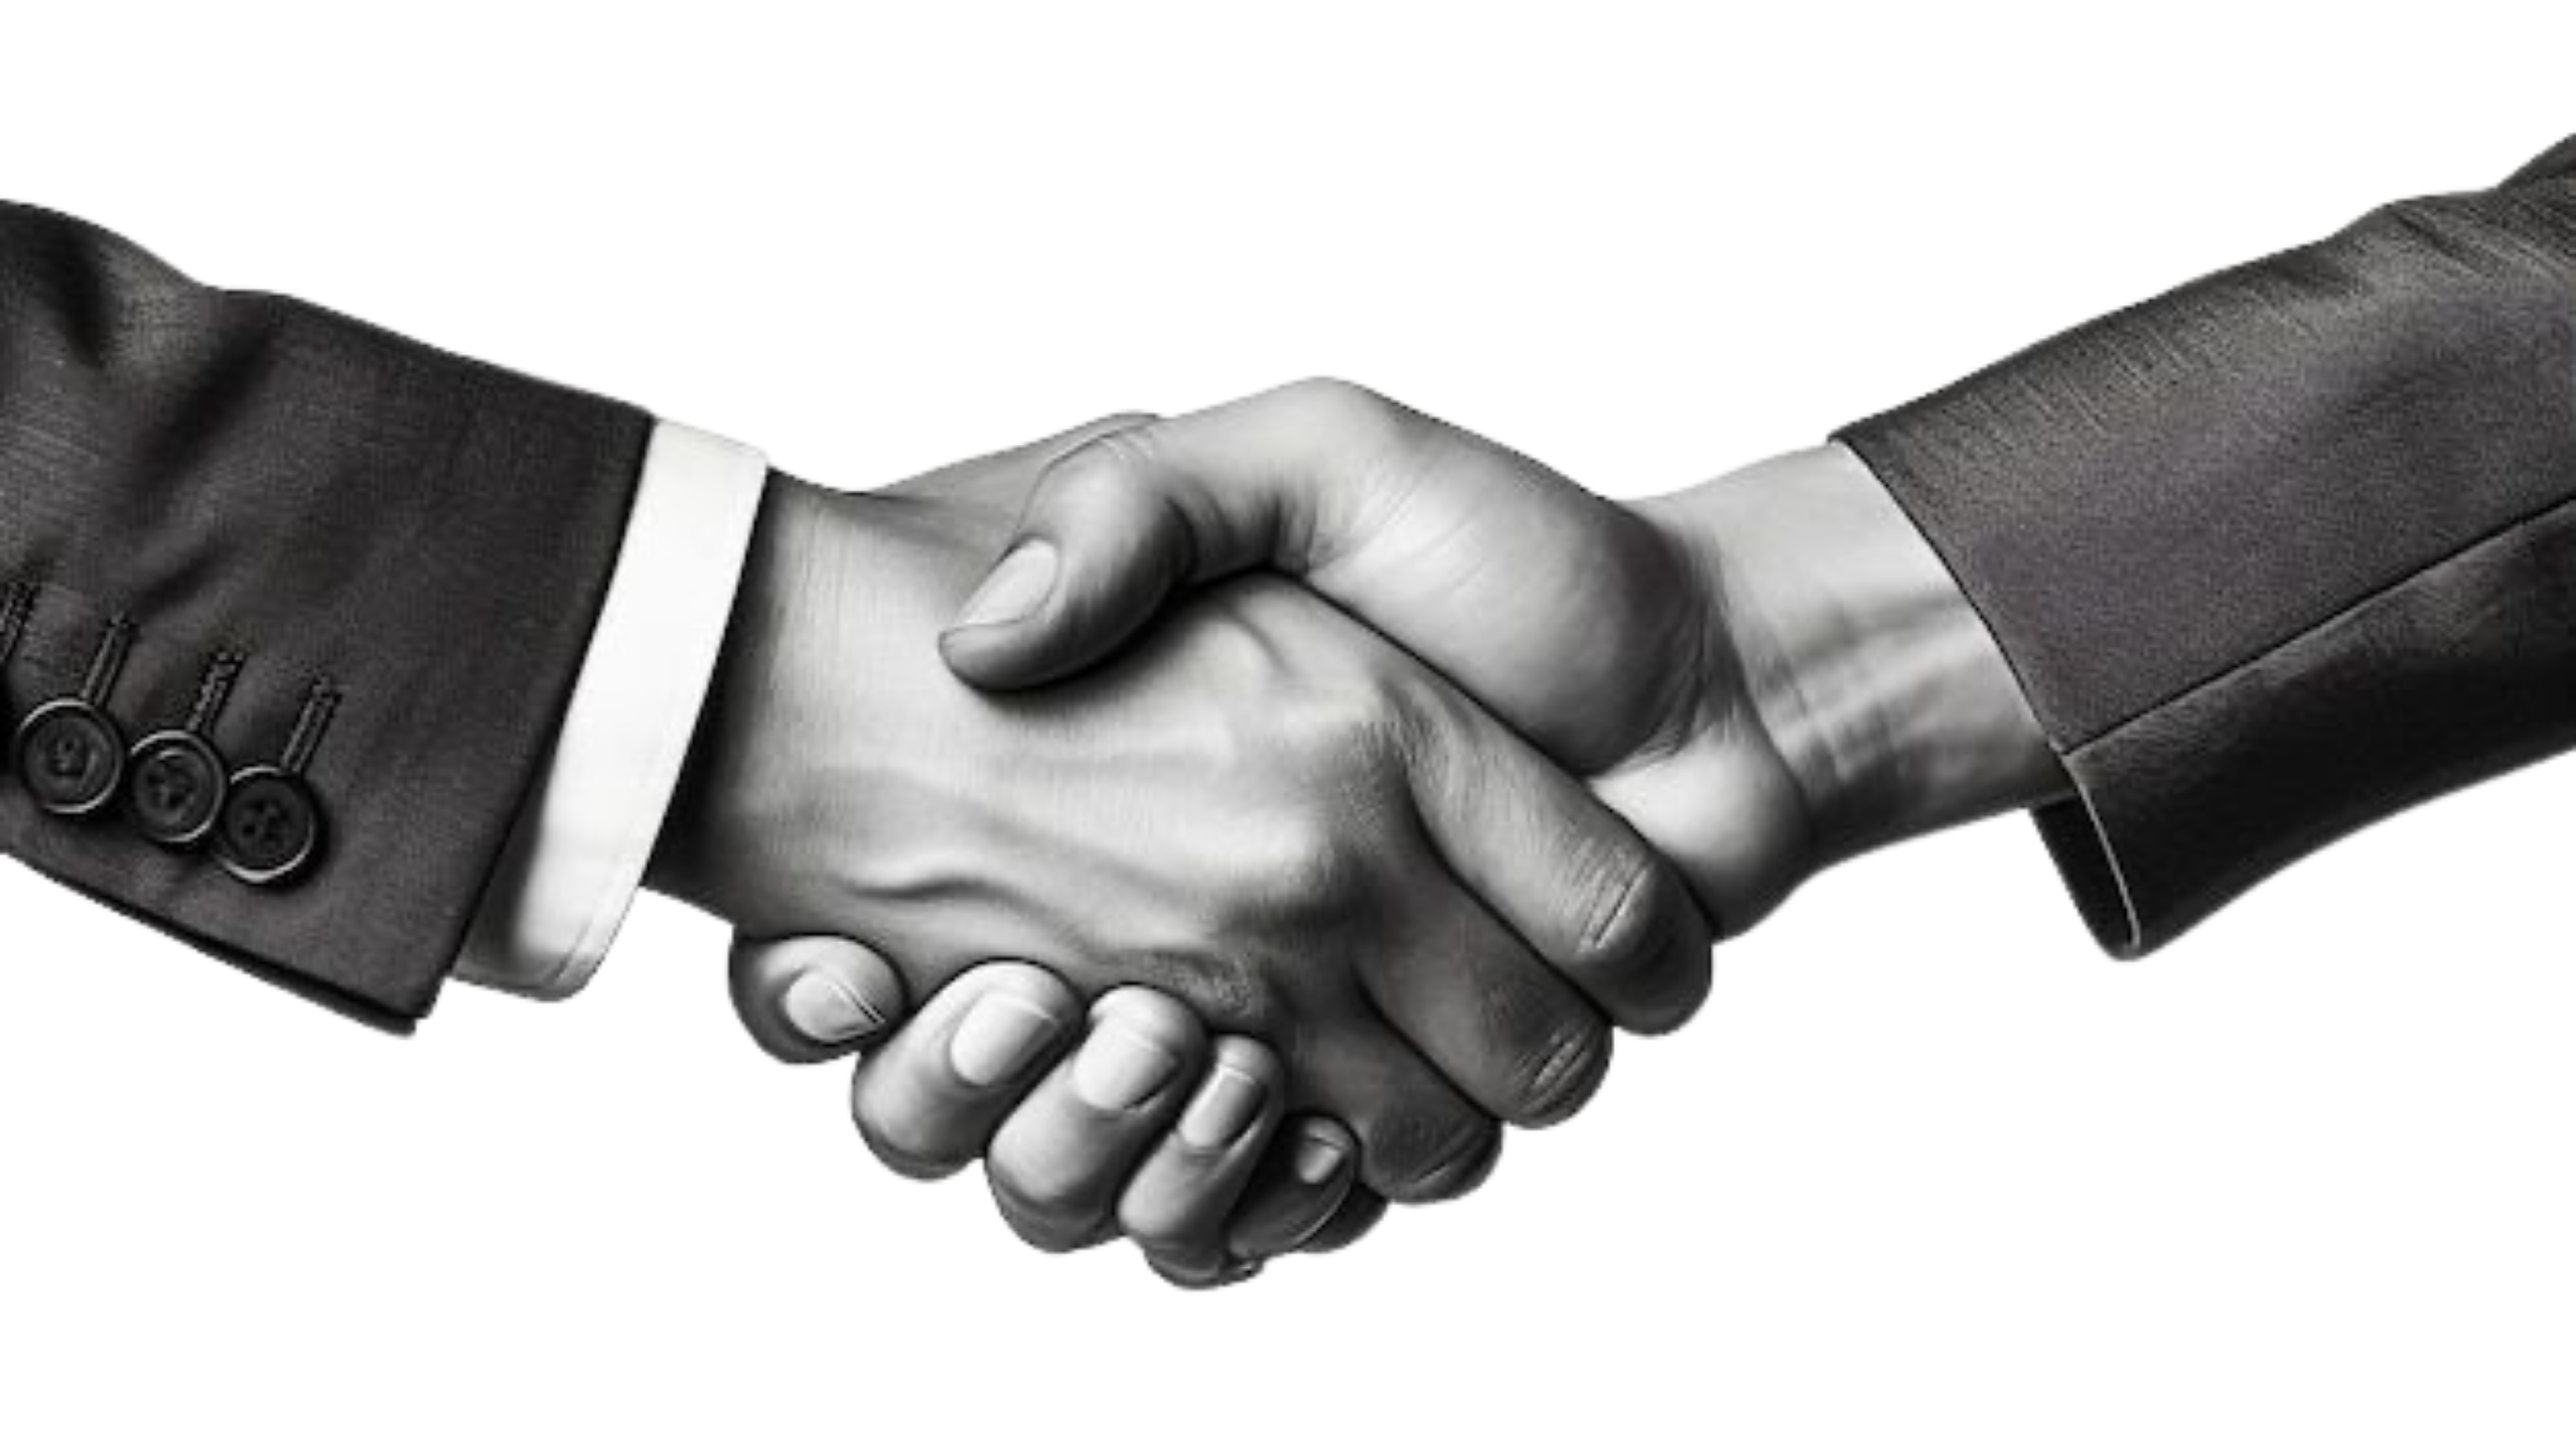
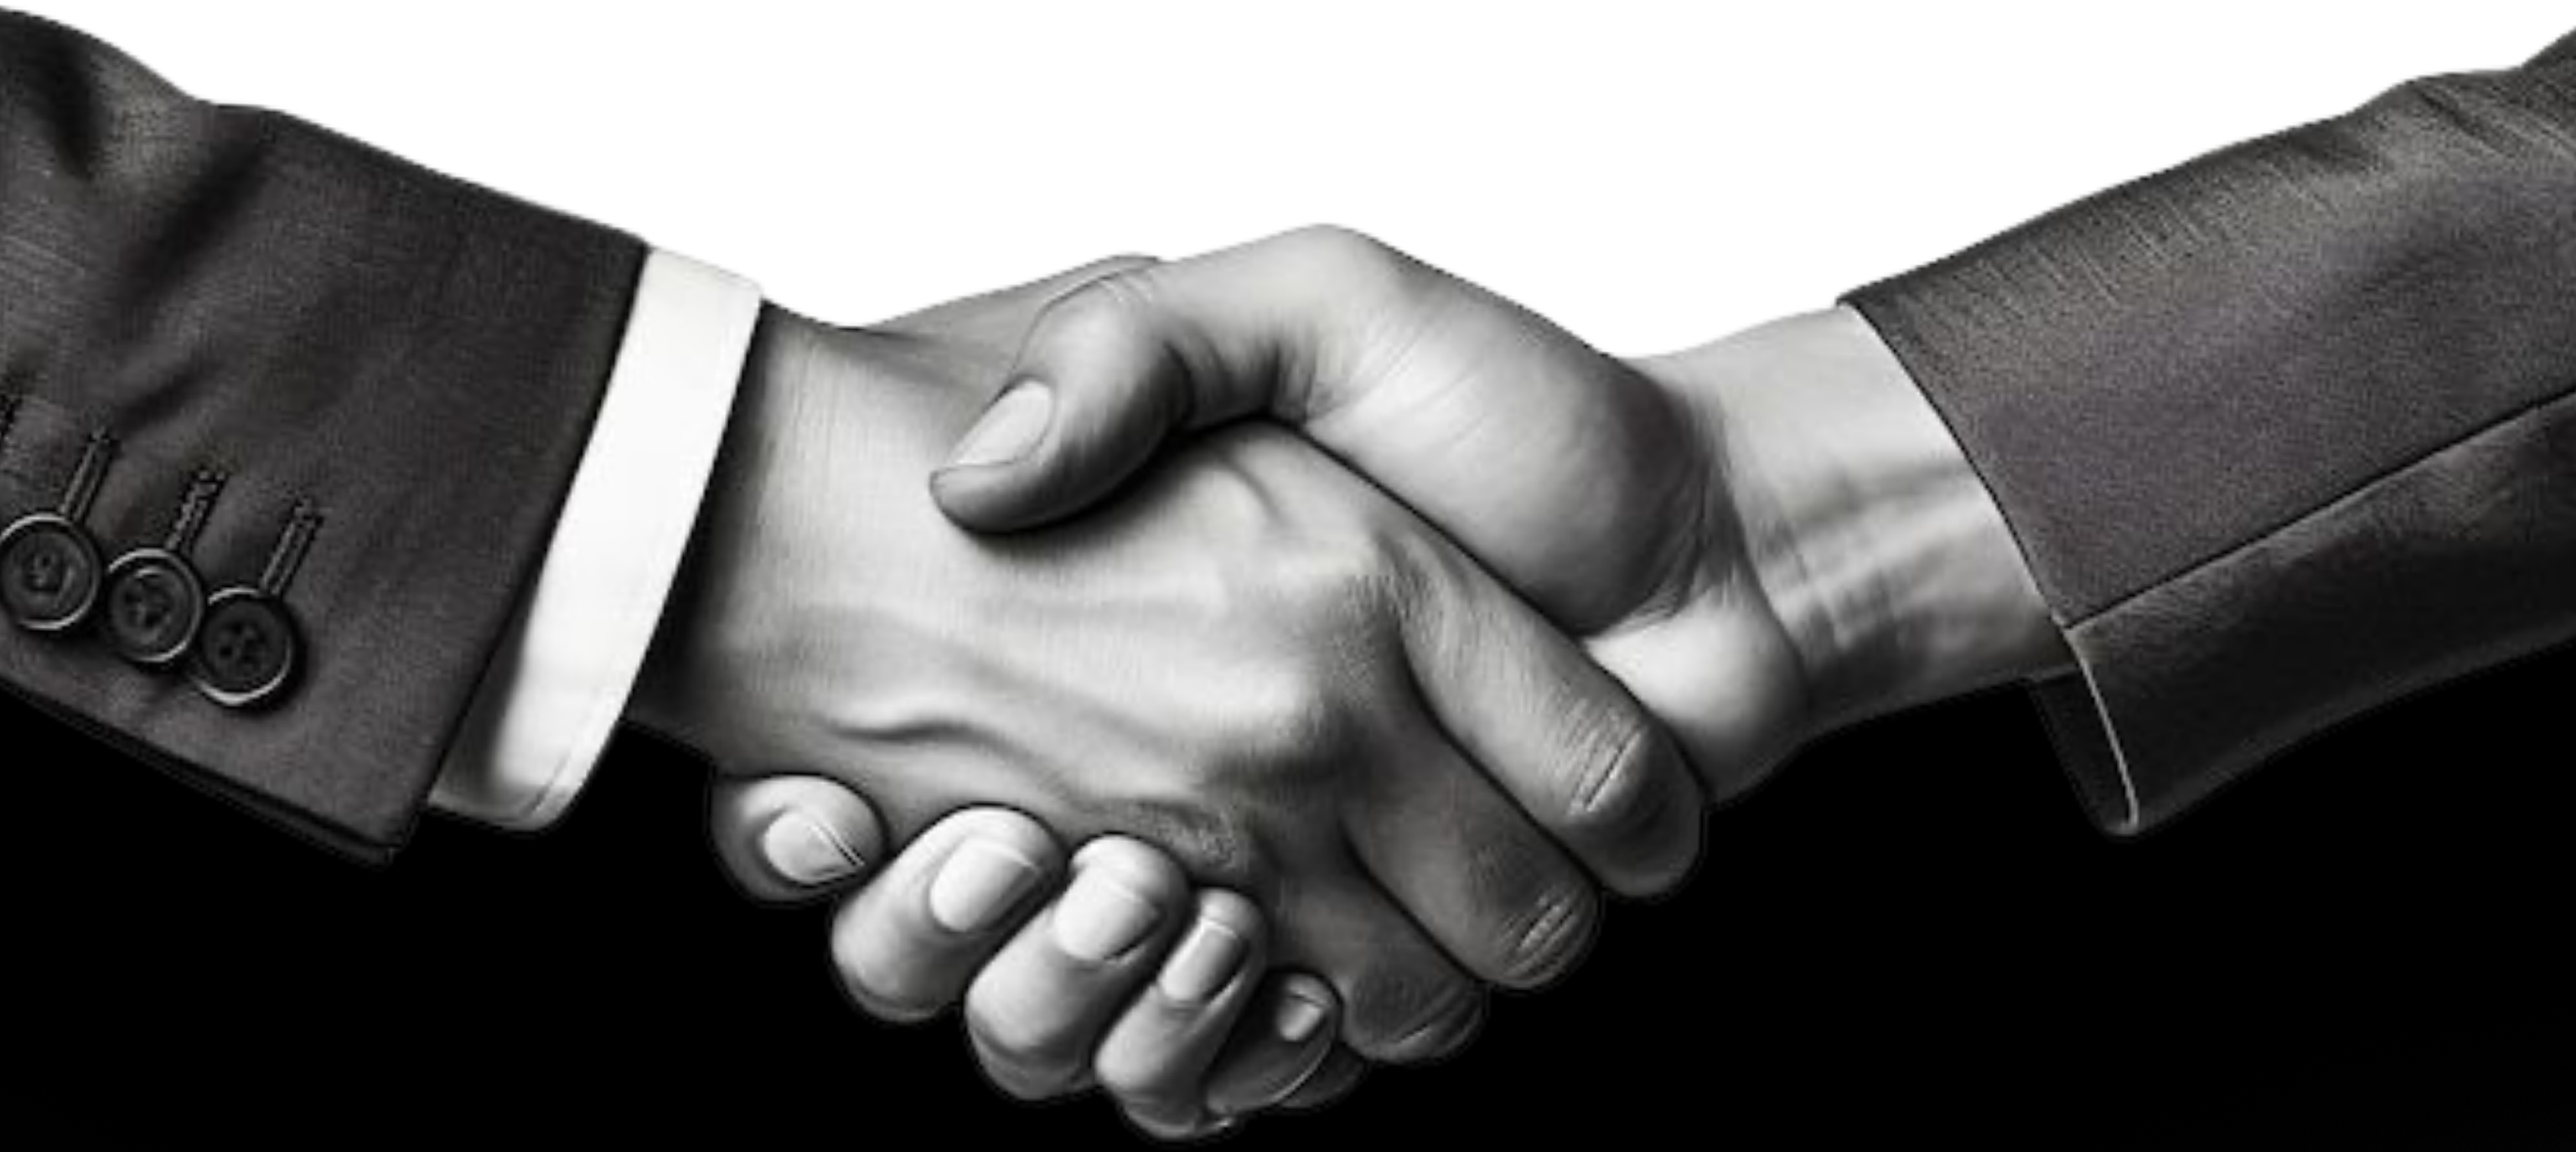
ajustes de tamaños

diff --git a/src/App.jsx b/src/App.jsx
@@ -203,18 +203,18 @@ function App() {
         </section>
 
         {/* Imagen 9 */}
-        <div style={{ width: '100%', display: 'flex', justifyContent: 'center', padding: '10px 0 40px 0', backgroundColor: '#ffffff' }}>
+        <div style={{ width: '100%', display: 'flex', justifyContent: 'center', padding: '0', backgroundColor: '#ffffff' }}>
           <img src={imgSTANDS9} alt="Imagen 9" style={{ width: '100%', height: 'auto', display: 'block' }} />
         </div>
 
         {/* 7. Razones */}
-        <section className="razones-section" style={{ backgroundColor: '#111111', padding: '80px 40px' }}>
+        <section className="razones-section" style={{ backgroundColor: '#000000', padding: '10px 40px 80px 40px' }}>
           <div style={{
             display: 'flex',
             flexDirection: 'column',
             alignItems: 'center',
             justifyContent: 'center',
-            gap: '50px',
+            gap: '15px',
             maxWidth: '1200px',
             margin: '0 auto'
           }}>
@@ -237,7 +237,7 @@ function App() {
         </section>
 
         {/* 8. Nuestros Stands */}
-        <section id="stands" className="nuestros-stands-section" style={{ backgroundColor: '#ffffff', padding: '80px 20px', display: 'flex', flexDirection: 'column', alignItems: 'center', gap: '50px' }}>
+        <section id="stands" className="nuestros-stands-section" style={{ backgroundColor: '#ffffff', padding: '80px 20px 40px', display: 'flex', flexDirection: 'column', alignItems: 'center', gap: '50px' }}>
           <img src={imgSTANDS17} alt="Stand 17" style={{ width: '100%', maxWidth: '1000px', height: 'auto' }} />
           <img src={imgSTANDS18} alt="Stand 18" style={{ width: '100%', maxWidth: '1000px', height: 'auto', borderRadius: '15px' }} />
           <img src={imgSTANDS19} alt="Stand 19" style={{ width: '100%', maxWidth: '1000px', height: 'auto', borderRadius: '15px' }} />
@@ -246,27 +246,29 @@ function App() {
           <img src={imgSTANDS22} alt="Stand 22" style={{ width: '100%', maxWidth: '1000px', height: 'auto', borderRadius: '15px' }} />
           <img src={imgSTANDS23} alt="Stand 23" style={{ width: '100%', maxWidth: '1000px', height: 'auto', borderRadius: '15px' }} />
           
-          <div style={{ display: 'flex', justifyContent: 'center', width: '100%', maxWidth: '900px', marginTop: '10px' }}>
-            <a href="https://wa.me/584226324938?text=¡Hola!%20Me%20gustaría%20información%20sobre%20los%20stands%20de%20ECOM2026" target="_blank" rel="noopener noreferrer" className="btn-vsl-cta">
-              ADQUIRIR UN STAND
-            </a>
+          <div style={{ display: 'flex', flexDirection: 'column', alignItems: 'center', width: '100%', gap: '15px' }}>
+            <div style={{ display: 'flex', justifyContent: 'center', width: '100%', maxWidth: '900px' }}>
+              <a href="https://wa.me/584226324938?text=¡Hola!%20Me%20gustaría%20información%20sobre%20los%20stands%20de%20ECOM2026" target="_blank" rel="noopener noreferrer" className="btn-vsl-cta">
+                ADQUIRIR UN STAND
+              </a>
+            </div>
+            <div className="vsl-pre-text" style={{ maxWidth: '900px', width: '100%', marginTop: '5px', marginBottom: '0' }}>
+              <p className="vsl-pre-question" style={{ color: 'rgba(0,0,0,0.5)', marginBottom: '0' }}>Toca para ver el mapa completo</p>
+              <p className="vsl-pre-cta" style={{ color: '#000000', marginTop: '2px' }}>AMPLIAR PLANO 👇🏻</p>
+            </div>
+            <button
+              type="button"
+              className="plano-zoom-trigger"
+              onClick={() => setIsPlanoZoomOpen(true)}
+              aria-label="Ampliar plano ECOM"
+            >
+              <img
+                src={imgPlanoEcomMuestra}
+                alt="Plano ECOM muestra"
+                style={{ width: '100%', maxWidth: '900px', height: 'auto', marginTop: '0', marginBottom: '0', borderRadius: '15px' }}
+              />
+            </button>
           </div>
-          <div className="vsl-pre-text" style={{ maxWidth: '900px', width: '100%', marginBottom: '2px' }}>
-            <p className="vsl-pre-question" style={{ color: 'rgba(0,0,0,0.5)' }}>Toca para ver el mapa completo</p>
-            <p className="vsl-pre-cta" style={{ color: '#000000' }}>AMPLIAR PLANO 👇🏻</p>
-          </div>
-          <button
-            type="button"
-            className="plano-zoom-trigger"
-            onClick={() => setIsPlanoZoomOpen(true)}
-            aria-label="Ampliar plano ECOM"
-          >
-            <img
-              src={imgPlanoEcomMuestra}
-              alt="Plano ECOM muestra"
-              style={{ width: '100%', maxWidth: '900px', height: 'auto', marginTop: '0', marginBottom: '10px', borderRadius: '15px' }}
-            />
-          </button>
         </section>
 
         {/* 9. Por qué participar */}

diff --git a/src/App.css b/src/App.css
@@ -578,7 +578,7 @@
 .marcas-title-wrapper {
   max-width: 500px;
   width: 100%;
-  margin-bottom: 50px;
+  margin-bottom: 15px;
 }
 
 .marcas-title-img {
